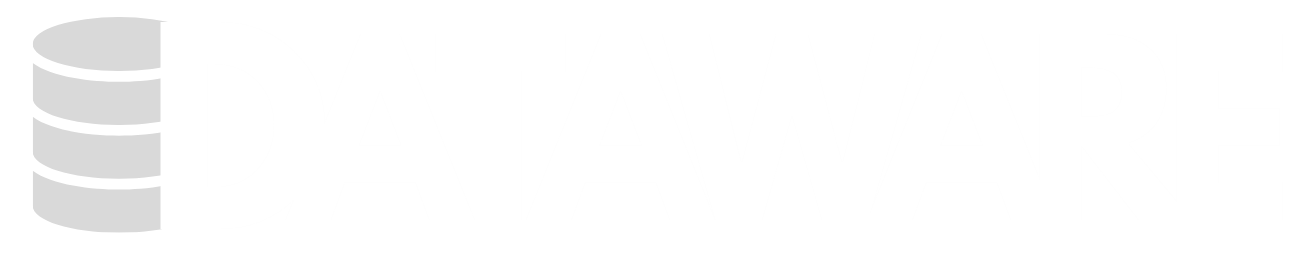
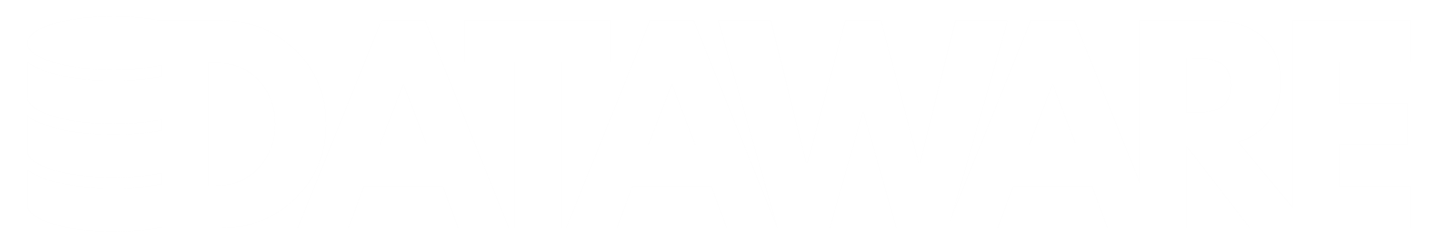
DT050520262049

Changed region(s): [[0.0, 0.0571, 0.1224, 0.9143]]

diff --git a/assets/html/landing_page.html b/assets/html/landing_page.html
@@ -1,0 +1,72 @@
+<!doctype html>
+<html lang="pt-BR">
+<head>
+    <meta charset="utf-8">
+    <meta name="viewport" content="width=device-width, initial-scale=1">
+
+    <title>Dataware - Início</title>
+    <link rel="shortcut icon" href="./assets/img/DTWICON.png" type="image/x-icon">
+
+    <!-- Bootstrap CSS -->
+    <link href="https://cdn.jsdelivr.net/npm/bootstrap@5.3.3/dist/css/bootstrap.min.css" rel="stylesheet">
+    <!-- Font Awesome CSS -->
+    <link rel="stylesheet" href="https://cdnjs.cloudflare.com/ajax/libs/font-awesome/6.5.1/css/all.min.css">
+    <!-- Custom CSS -->
+    <link rel="stylesheet" href="../css/style.css">
+</head>
+<body class="landing-page">
+    
+    <div class="container-fluid">
+        
+        <header class="px-5">
+            <nav class="navbar navbar-expand-lg navbar-light">
+                <div class="container-fluid">
+                    <a class="navbar-brand" href="#"><img class="logo-dtw" src="../img/DATAWARE2.png" alt=""></a>
+                    <button class="navbar-toggler" type="button" data-bs-toggle="collapse" data-bs-target="#navbarNav" aria-controls="navbarNav" aria-expanded="false" aria-label="Toggle navigation">
+                        <span class="navbar-toggler-icon"></span>
+                    </button>
+                    <div class="collapse navbar-collapse" id="navbarNav">
+                        <ul class="navbar-nav">
+                            <li class="nav-item">
+                                <a class="nav-link"href="#">Soluções</a>
+                            </li>
+                            <li class="nav-item">
+                                <a class="nav-link" href="#">Recursos</a>
+                            </li>
+                            <li class="nav-item">
+                                <a class="nav-link" href="#">Benefícios</a>
+                            </li>
+                            <li class="nav-item">
+                                <a class="nav-link" href="#">Sobre nós</a>
+                            </li>
+                            <li class="nav-item">
+                                <a class="nav-link" href="#">Contato</a>
+                            </li>
+                        </ul>
+                        <a href="../../index.html" class="btn btn-sign fw-medium ms-auto">
+                            <i class="far fa-user me-2"></i> Acessar conta
+                        </a>
+                    </div>
+                </div>
+            </nav>
+        </header>
+
+        <div class="container mt-4">
+            <div class="row">
+                <div class="col">
+                    <span>Gestão inteligente para o seu negócio</span>
+                    <h1 class="fw-bold">Mais controle, eficiência e crescimento para <span class="text-primary">sua empresa.</span></h1>
+                    <p class="text-muted fw-medium mt-3">O Dataware é um sistema completo que itegra todas as áreas do seu negócio em uma única plataforma. Simples, ágil e feito para facilitar sua gestão.</p>
+                    <button class="btn btn-sign"><i class="fas fa-rocket me-2"></i>Conheça o sistema</button>
+                    <button class="btn btn-outline-sign"><i class="fas fa-play me-2"></i> Veja como funciona</button>
+                </div>
+                <div class="col p-4"></div>
+            </div>
+        </div>
+
+    </div>
+
+    <!-- Bootstrap JS -->
+    <script src="https://cdn.jsdelivr.net/npm/bootstrap@5.3.3/dist/js/bootstrap.bundle.min.js"></script>
+</body>
+</html>

diff --git a/assets/css/style.css b/assets/css/style.css
@@ -1,5 +1,3 @@
-@import "./_root.css";
-
 * 
 {
     margin: 0;
@@ -33,13 +31,14 @@ body
 
 .logo-dtw
 {
-    max-width: 175px;
+    max-width: 200px;
 }
 
 .sidebar .nav-link.active,
 .sidebar .nav-link:hover
 {
-    background: rgba(0, 0, 0, .2);
+    background: rgba(255, 255, 255, 1);
+    color: #0d6efd;
 }
 
 .card-custom
@@ -72,8 +71,10 @@ body
 .icon-estoque { background: #e8e3f8; color: #4826b1; }
 .icon-financeiro { background: #fff5dd; color: #fc9f13; }
 .icon-fiscal { background: #dff5fc; color: #4ea8d7; }
-.btn-sign { background: #1774c5; color: #fff; } 
-.btn-sign:hover { background: #0d6efd; color: #fff;}
+.btn-sign { background: #1a3965; color: #fff; } 
+.btn-sign:hover { background: #122846; color: #fff;}
+.btn-outline-sign { background: transparent; color: #1a3965; border: 1px solid #1a3965;} 
+.btn-outline-sign:hover { background: #122846; color: #fff;}
 
 .card-link
 {
@@ -102,4 +103,13 @@ body
     text-decoration: none;
     font-size: 14px;
     margin-top: 10px;
+}
+
+.landing-page
+{
+    .nav-link
+    {
+        color: #1a3965;
+        font-weight: 500;
+    }
 }

diff --git a/index.html b/index.html
@@ -23,18 +23,22 @@
 
             <nav class="nav flex-column">
                 <a href="#" class="nav-link active"><i class="fas fa-house me-2"></i> Início</a>
+                <a href="#" class="nav-link"><i class="fas fa-users me-2"></i> Cadastros</a>
+                <a href="#" class="nav-link"><i class="fas fa-shopping-cart me-2"></i> Vendas</a>
+                <a href="#" class="nav-link"><i class="fas fa-box me-2"></i> Estoque</a>
+                <a href="#" class="nav-link"><i class="fas fa-dollar-sign me-2"></i> Financeiro</a>
+                <a href="#" class="nav-link"><i class="fas fa-file-invoice me-2"></i> Vendas</a>
             </nav>
 
             <div class="mt-auto text-center">
-                <small><i  class="fas fa-circle-question me-2"></i> Precisa de ajuda?</small>
-                <a href="#"><small>Fale com o suporte</small></a>
+                <a href="#"><small><i class="fas fa-headset me-2"></i> Falar com o suporte</small></a>
             </div>
         </aside>
 
         <main class="container-fluid p-4">
             <header class="d-flex justify-content-between align-items-center mb-4">
                 <div class="header-text">
-                    <h3 class="fw-bold">Bem vindo(a) ao Dataware</h3>
+                    <h3 class="fw-bold">Bem vindo(a) ao Dataware 👋</h3>
                     <p class="text-muted mb-0">Use o menu abaixo para acessar as principais funcionalidades do sistema.</p>
                 </div>
                 <div class="header-user d-flex align-items-center">

diff --git a/assets/html/login.html b/assets/html/login.html
@@ -19,7 +19,7 @@
     <div class="container d-flex flex-column min-vh-100 justify-content-center align-items-center">
 
         <header class="text-center mb-2">
-            <img class="logo-dtw" src="../img/DATAWARE2.png" alt="">
+            <a class="d-flex align-items-center text-decoration-none" href="./landing_page.html"> <i class="fas fa-chevron-left me-2"></i> <img class="logo-dtw" src="../img/DATAWARE2.png" alt=""></a>
         </header>
 
         <main class="container-fluid p-4 d-flex justify-content-center align-items-center">

diff --git a/UPDATE.md b/UPDATE.md
@@ -18,3 +18,12 @@
 - Criado nova imagem para logo do Login.
 - Ajustado algumas estilizações.
 - Criado forms para login.
+
+## DT050520262049
+- Finalizado página de login (revisar).
+- Iniciado página Landing Page do sistema.
+- Feito header e iniciado corpo.
+- Imagem de logo modificada.
+- Adicionado restante da nav no página index.
+- Feito o link entre todas as páginas.
+- Iniciado teste de estilização para uso de arquivo .css único.